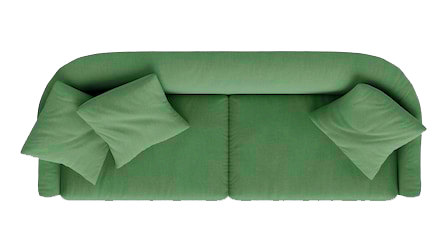
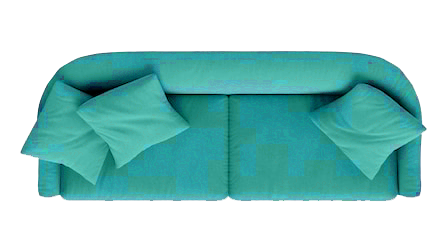
Nettoyage du code.

diff --git a/src/view/GarbagePanel.java b/src/view/GarbagePanel.java
@@ -9,7 +9,7 @@ public class GarbagePanel extends JPanel implements ActionListener {
 
     private JButton poubelle = new JButton("Poubelle");
     private JPanel deleteZone = new JPanel();
-
+    private Image image;
 
     public GarbagePanel(int width, int height) {
         super();
@@ -21,6 +21,7 @@ public class GarbagePanel extends JPanel implements ActionListener {
         ImageIcon icon = new ImageIcon("./ressources/images/SVGFiles/trash.png");
         ImageIcon icon2 = new ImageIcon(icon.getImage().getScaledInstance(25,25,Image.SCALE_DEFAULT));
         JLabel label = new JLabel(icon2, JLabel.CENTER);
+        image = Toolkit.getDefaultToolkit().getImage("./ressources/images/autres/royal_texture.jpg");
 
         poubelle.addActionListener(this);
 
@@ -59,5 +60,11 @@ public class GarbagePanel extends JPanel implements ActionListener {
     @Override
     public void actionPerformed(ActionEvent e) {
 
+    }
+
+    @Override
+    protected void paintComponent(Graphics g) {
+        super.paintComponent(g);
+        g.drawImage(image, 0, 0, this);
     }
 }

diff --git a/src/view/ToolboxPanel.java b/src/view/ToolboxPanel.java
@@ -25,10 +25,10 @@ public class ToolboxPanel extends JPanel implements ActionListener {
 
     public ToolboxPanel() {
         super();
-        image = Toolkit.getDefaultToolkit().getImage("./ressources/images/royal_texture.jpg");
+        image = Toolkit.getDefaultToolkit().getImage("./ressources/images/autres/royal_texture.jpg");
         JPanel mainPan = new JPanel();
         toolboxHandler.initComboBox(comboBoxStyles, comboBoxMeuble);
-        gridPanel = new GridPanel(3,6,false);
+        gridPanel = new GridPanel(2,5,false);
 
         cellInfoPan = new CellPanel(new Cell(600,600,null),200, false, false);
 

diff --git a/src/view/IHM.java b/src/view/IHM.java
@@ -25,7 +25,7 @@ public class IHM extends JFrame implements Serializable {
 
         JFrame frame = new JFrame("Royal House") ;
         frame.setDefaultCloseOperation(JFrame.EXIT_ON_CLOSE);
-        frame.setIconImage(new ImageIcon("./ressources/images/logo.png").getImage());
+        frame.setIconImage(new ImageIcon("./ressources/images/autres/logo.png").getImage());
         frame.setExtendedState(Frame.MAXIMIZED_BOTH);
         frame.setLocationRelativeTo(null);
         frame.add(toolboxPan,BorderLayout.WEST);

diff --git a/src/tests/process/ToolboxHandlerTest.java b/src/tests/process/ToolboxHandlerTest.java
@@ -1,4 +1,4 @@
-package process;
+/*package process;
 
 import model.Furniture;
 import org.junit.Test;
@@ -62,4 +62,4 @@ public class ToolboxHandlerTest {
 
         assertEquals(furnitures1.size(), furnitures2.size());
     }
-}
+}*/

diff --git a/src/tests/process/GridHandlerTest.java b/src/tests/process/GridHandlerTest.java
@@ -1,4 +1,4 @@
-package process;
+/*package process;
 
 import model.Cell;
 import model.Furniture;
@@ -76,4 +76,4 @@ public class GridHandlerTest {
     @Test
     public void getColumnNumber() {
     }
-}
+}*/
